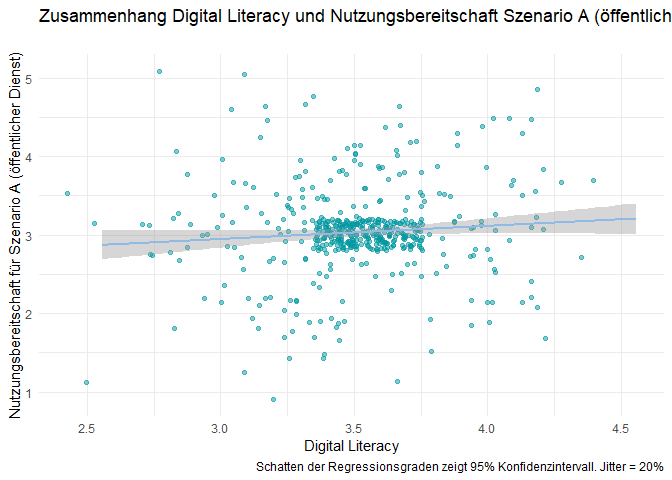
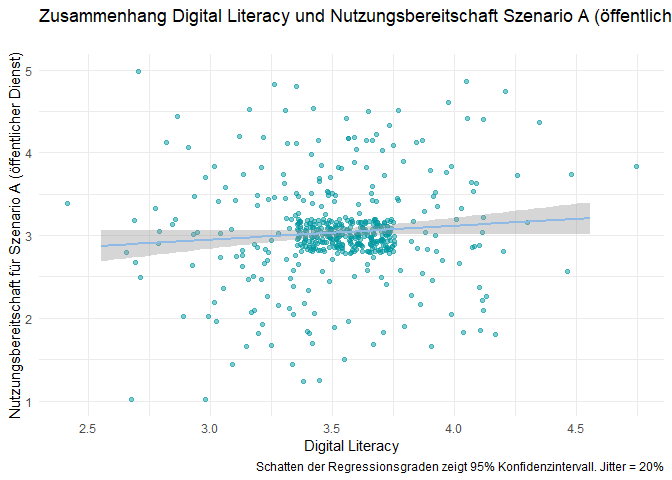
Jiggel Szenario B VS Digital Litarcy

diff --git a/readme.md b/readme.md
@@ -136,6 +136,10 @@ Substanz (mindestens 3 Items) - und damit ihre Funktionalität behalten.
     ##        cor 
     ## 0.02317746
 
+    ## `geom_smooth()` using formula = 'y ~ x'
+
+![](readme_files/figure-markdown_strict/unnamed-chunk-8-1.png)
+
 #### Zusammenhangshypothese für multiple lineare Regression
 
 1.  Die Nutzungsbereitschaft von innovativen Services der
@@ -174,4 +178,4 @@ n(d=0.8; “hoch”)=51.04916
     ## Warning: Removed 256 rows containing non-finite outside the scale range
     ## (`stat_bin()`).
 
-![](readme_files/figure-markdown_strict/unnamed-chunk-8-1.png)
+![](readme_files/figure-markdown_strict/unnamed-chunk-9-1.png)
